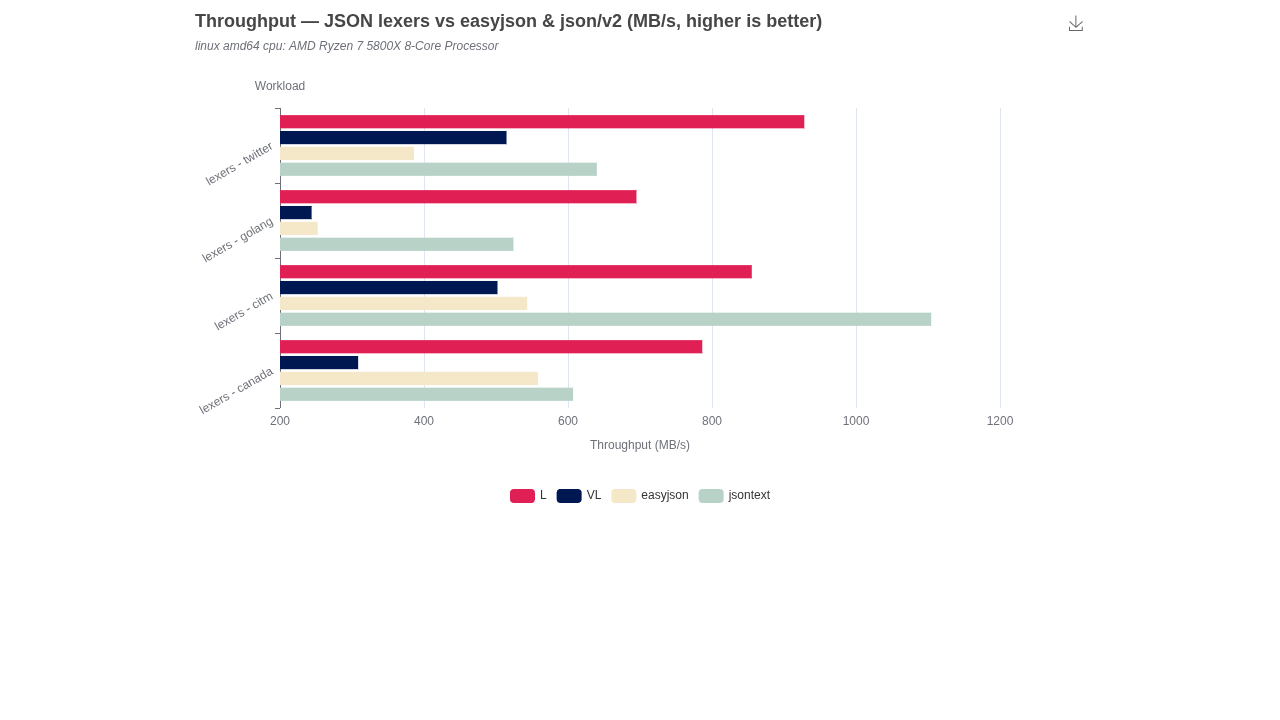
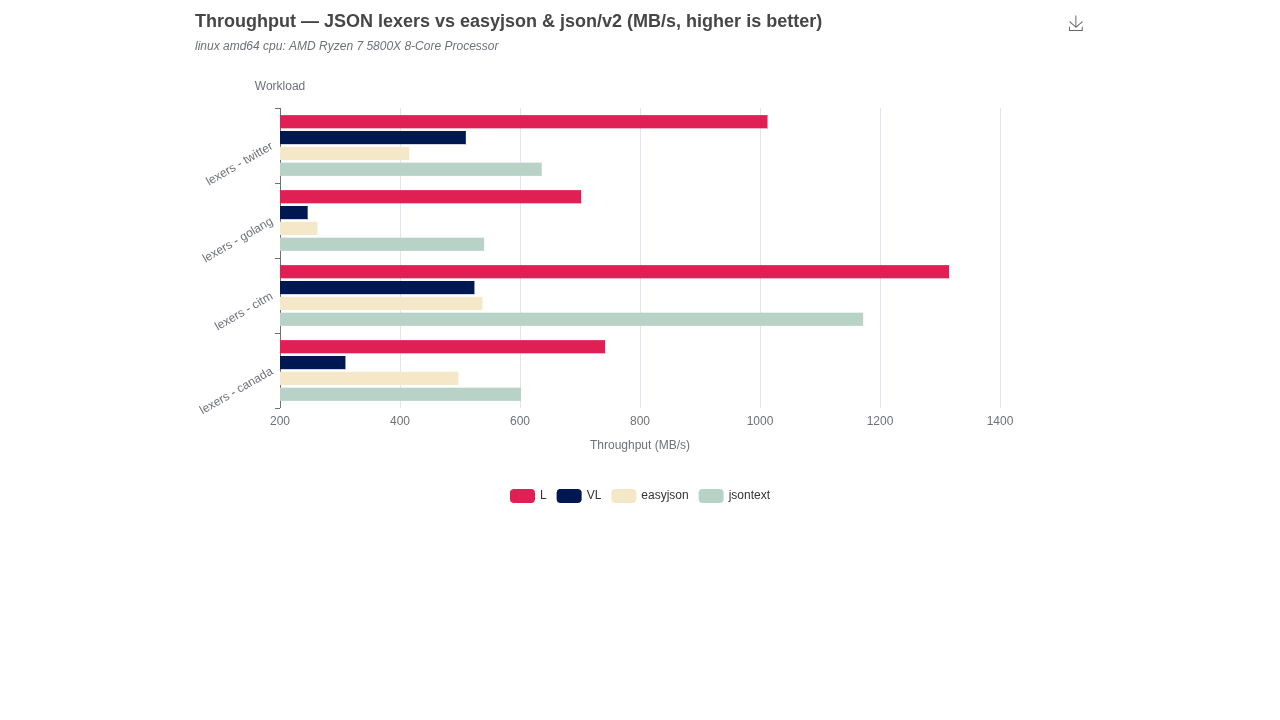
json/lexers/benchmark: refresh chart after the §9.2 push whitespace batch-skip
The chart drives the tokenizers via Tokens() (push). With the semantic push core
now batch-skipping whitespace (§9.2), citm L jumps 855→1315 MB/s, so L now leads
on all four workloads — citm included (1315 vs jsontext 1172). Regenerated
benchmark.txt (median of 6) + throughput.png; README updated.

diff --git a/json/lexers/benchmark/benchviz/README.md b/json/lexers/benchmark/benchviz/README.md
@@ -16,7 +16,9 @@ drains the whole document to EOF; `b.SetBytes` is the input size, so the bars ar
 *input* throughput.
 
 - **`L` (semantic)** — our default lexer: SWAR fast-path scan, decodes string
-  escapes, elides structural separators. It leads on three of the four workloads.
+  escapes, elides structural separators, and batch-skips whitespace runs. It leads
+  on **all four** workloads, including whitespace-heavy `citm_catalog` (1315 vs
+  jsontext's 1172 MB/s).
 - **`VL` (verbatim)** — our verbatim lexer: it does strictly *more* work than `L`
   (preserves the insignificant whitespace between tokens, tracks 1-based
   line/column, and keeps string values raw for byte-faithful round-tripping), so
@@ -25,8 +27,8 @@ drains the whole document to EOF; `b.SetBytes` is the input size, so the bars ar
   conversion), to match what our lexer does.
 - **`json/v2` (jsontext)** — a fully RFC 8259-validating streaming tokenizer; the
   closest peer to `L` (it validates number grammar and never converts to native
-  types). It wins on `citm_catalog`, a whitespace-heavy catalog where its minimal
-  per-token model shines.
+  types), and the stronger of the two external tokenizers — but `L` now edges it
+  on every workload, citm included.
 
 ### The workloads
 